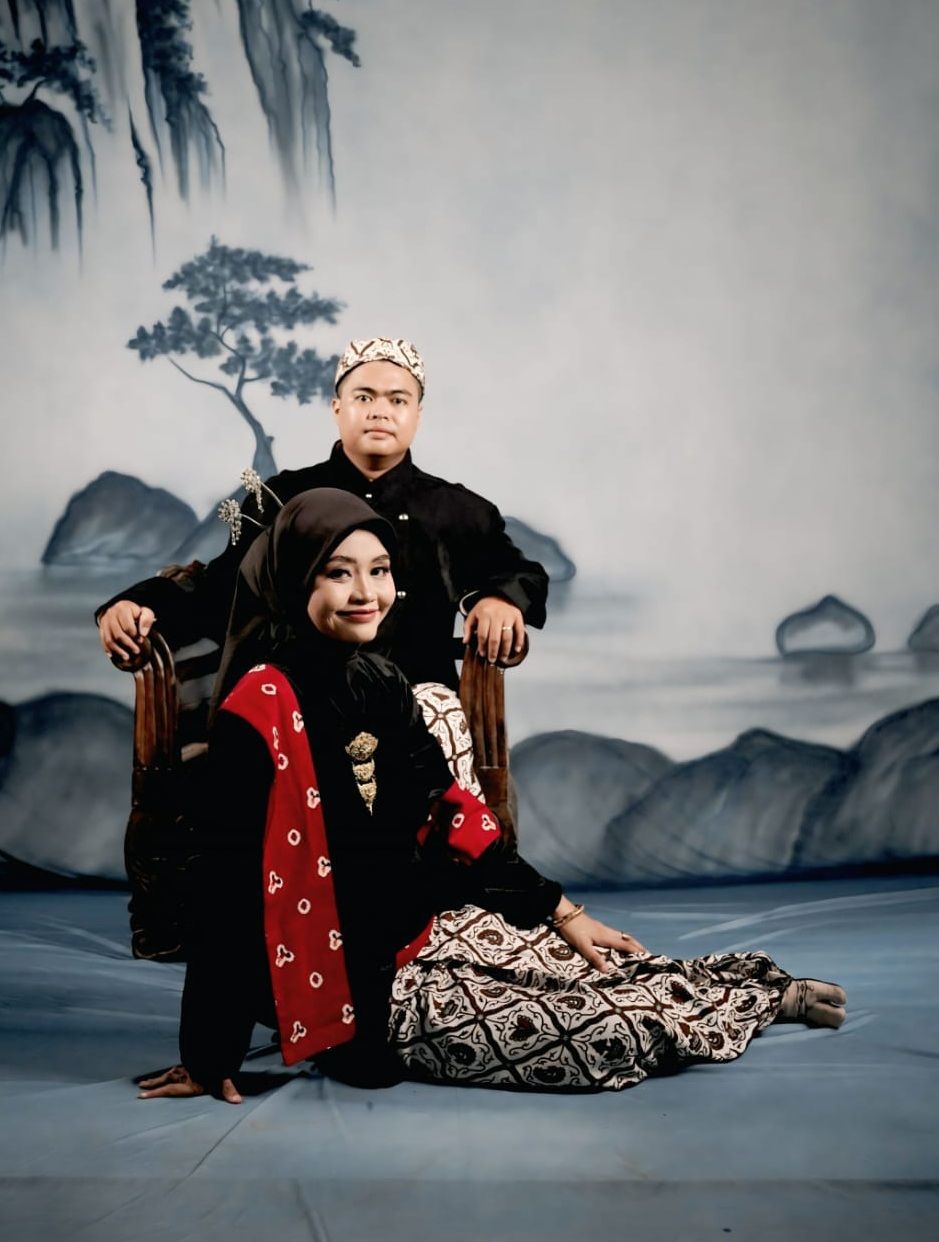
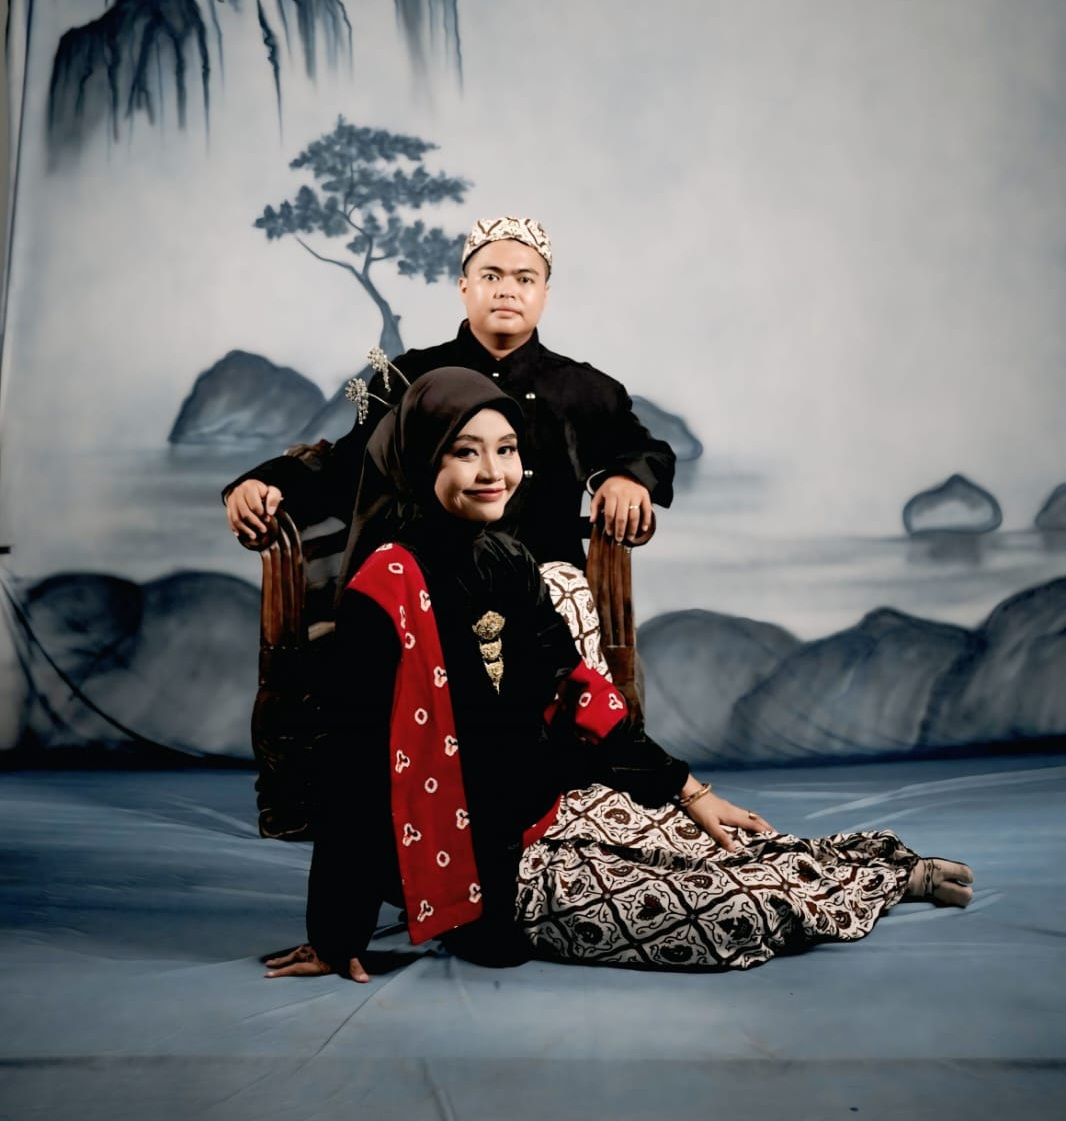
hide gambar galeri yang gagal load + hapus foto 41 yang broken
- tambah onerror handler pada <img> galeri: kalau file hilang/rusak,
  .gallery-item parent otomatis di-hide supaya tidak muncul frame
  kosong dengan alt text
- onerror pada lightbox <img>: auto-skip ke slide berikutnya kalau
  user prev/next kena gambar broken
- hapus assets/images/gallery/41.jpg (file broken di working tree);
  entry di config.js sengaja dibiarkan supaya kalau file di-restore
  suatu saat, otomatis muncul lagi
- kompresi ulang 31.png & 37.png

diff --git a/assets/js/script.js b/assets/js/script.js
@@ -633,6 +633,10 @@ document.addEventListener('DOMContentLoaded', function() {
         lightboxImage.onload = () => {
             lightboxImage.classList.add('is-visible', 'kenburns');
         };
+        // Kalau image broken/hilang, auto-skip ke slide berikutnya
+        lightboxImage.onerror = () => {
+            showNextImage();
+        };
         if (lightboxIndexEl) lightboxIndexEl.textContent = index + 1;
     }
 
@@ -853,7 +857,7 @@ function loadConfigData() {
             const aosDelay = Math.min(index * 40, 300);
             return `
                 <div class="gallery-item gallery-item--${type}${extraCls}" data-aos="${aosName}" data-aos-delay="${aosDelay}" data-index="${index}">
-                    <img src="${item.src}" alt="${item.caption || 'Gallery ' + (index + 1)}" loading="lazy">
+                    <img src="${item.src}" alt="${item.caption || 'Gallery ' + (index + 1)}" loading="lazy" onerror="this.closest('.gallery-item').style.display='none'">
                     <div class="gallery-overlay">
                         <i class="fas fa-search-plus gallery-zoom-icon"></i>
                     </div>
